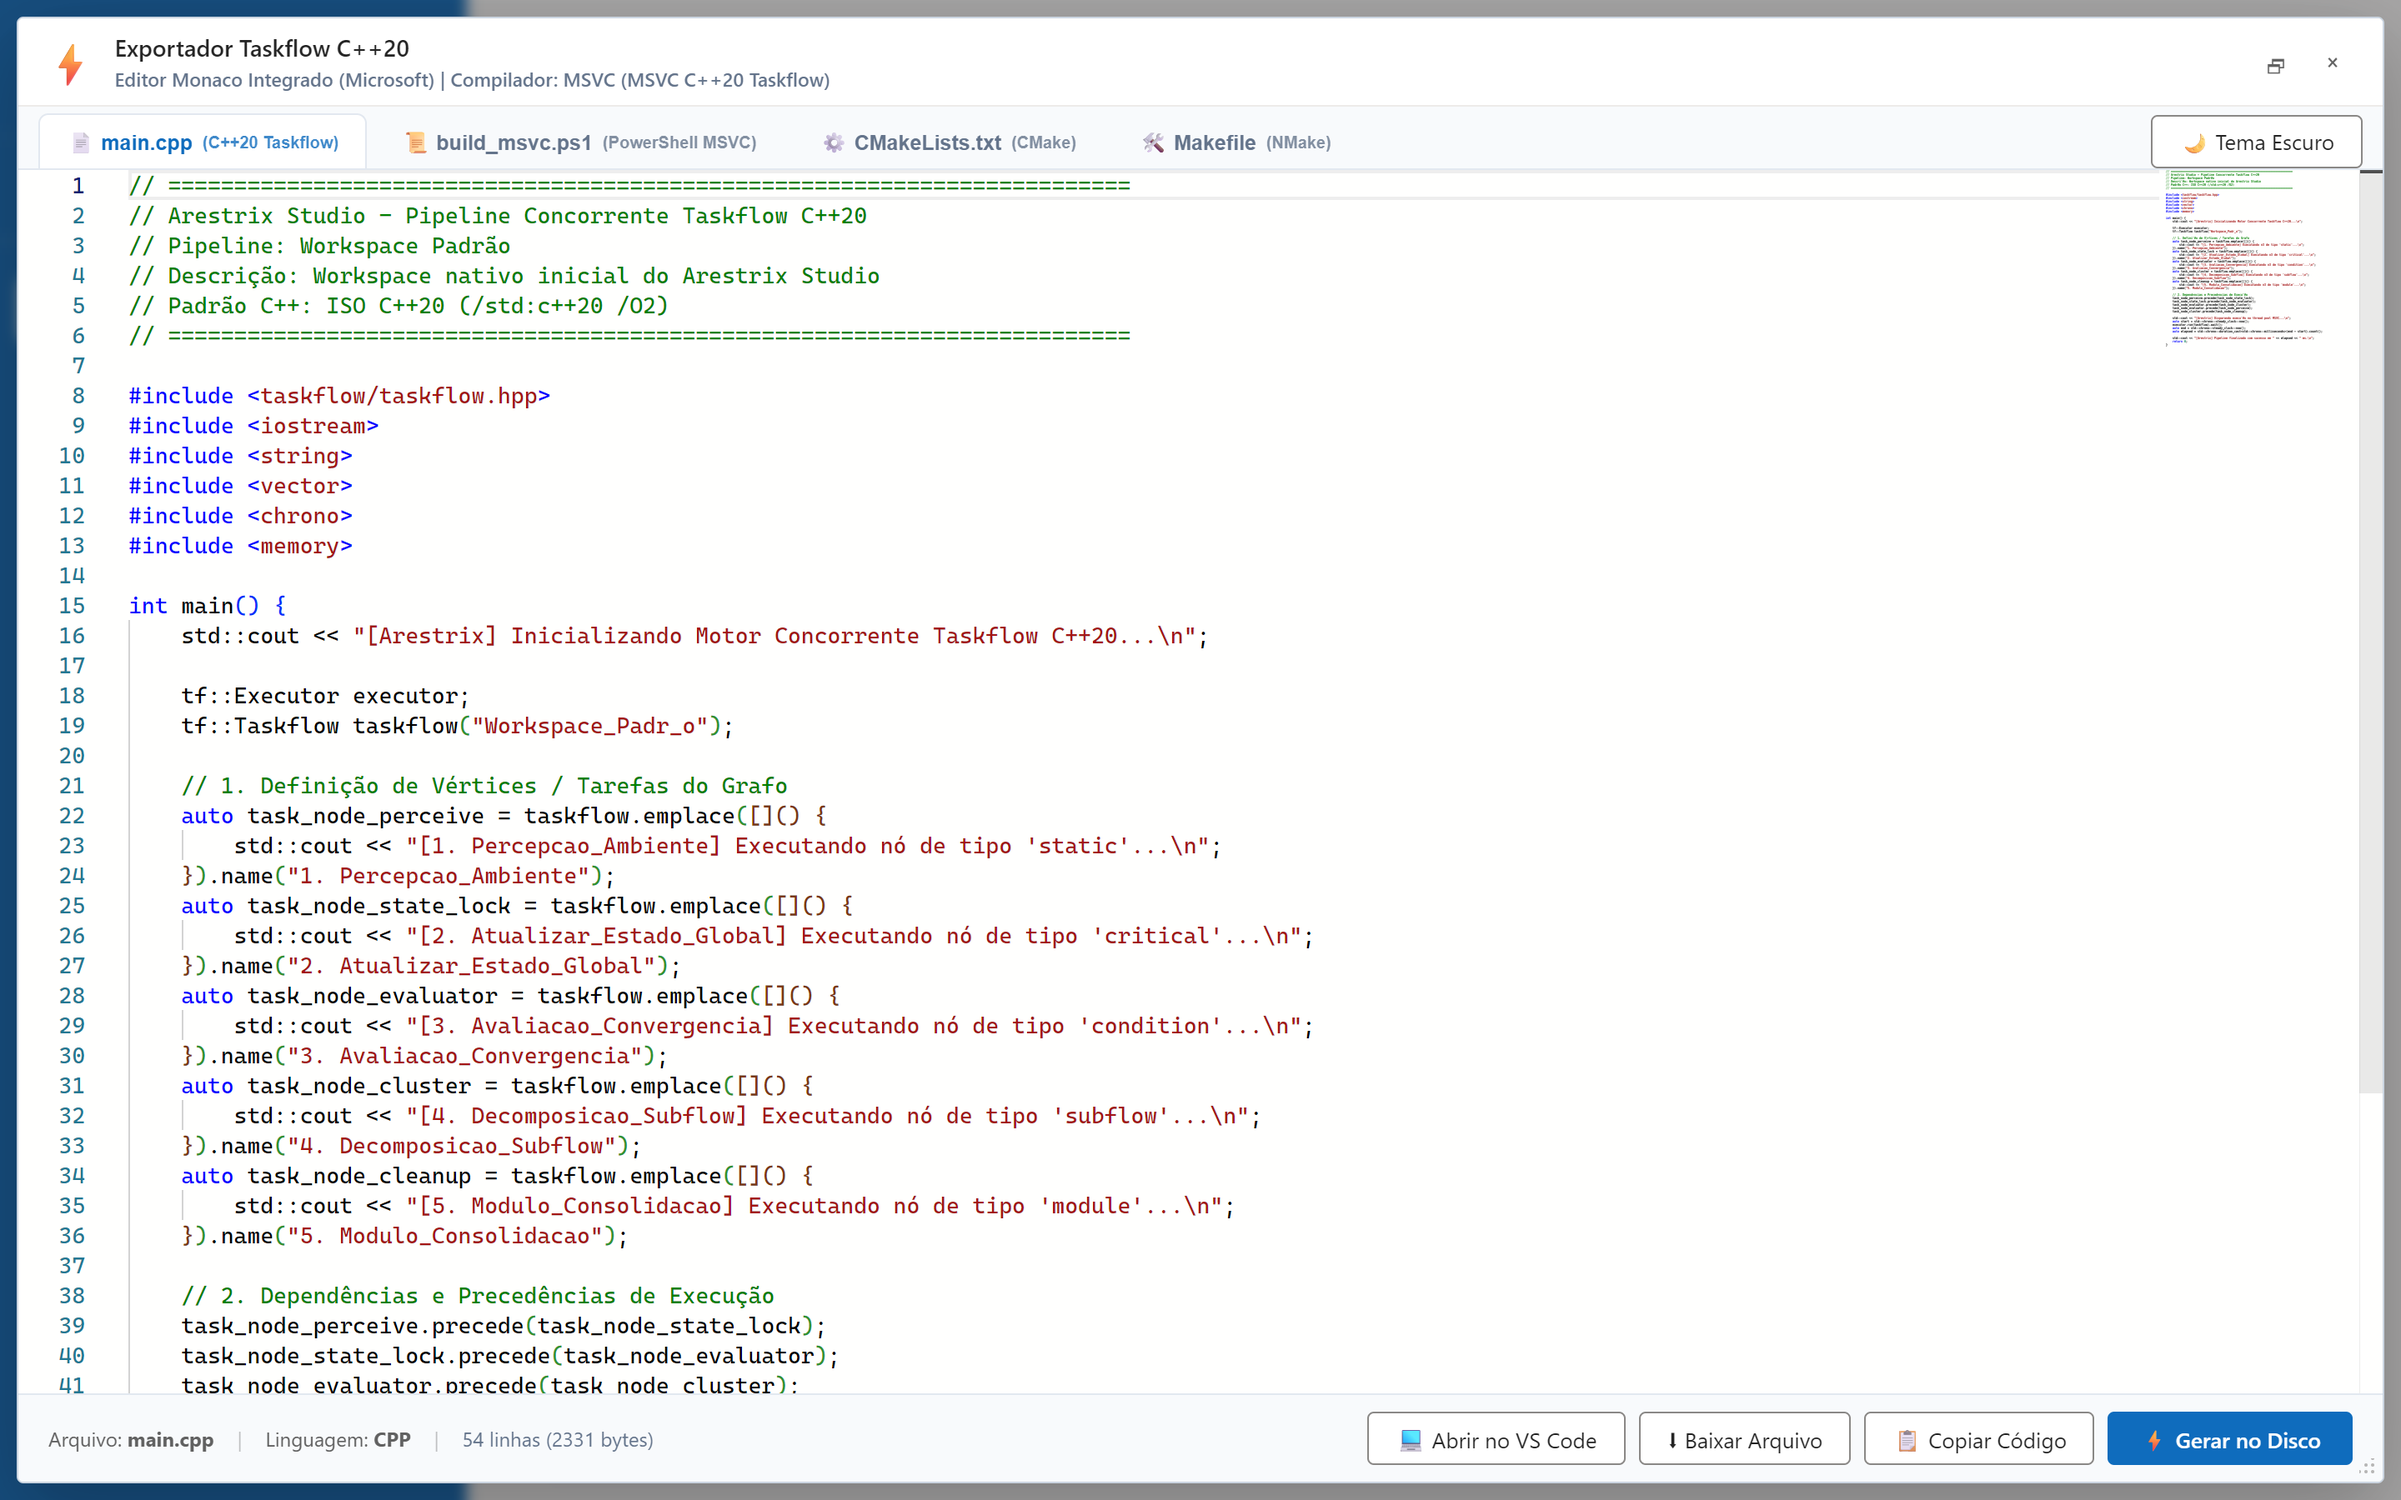
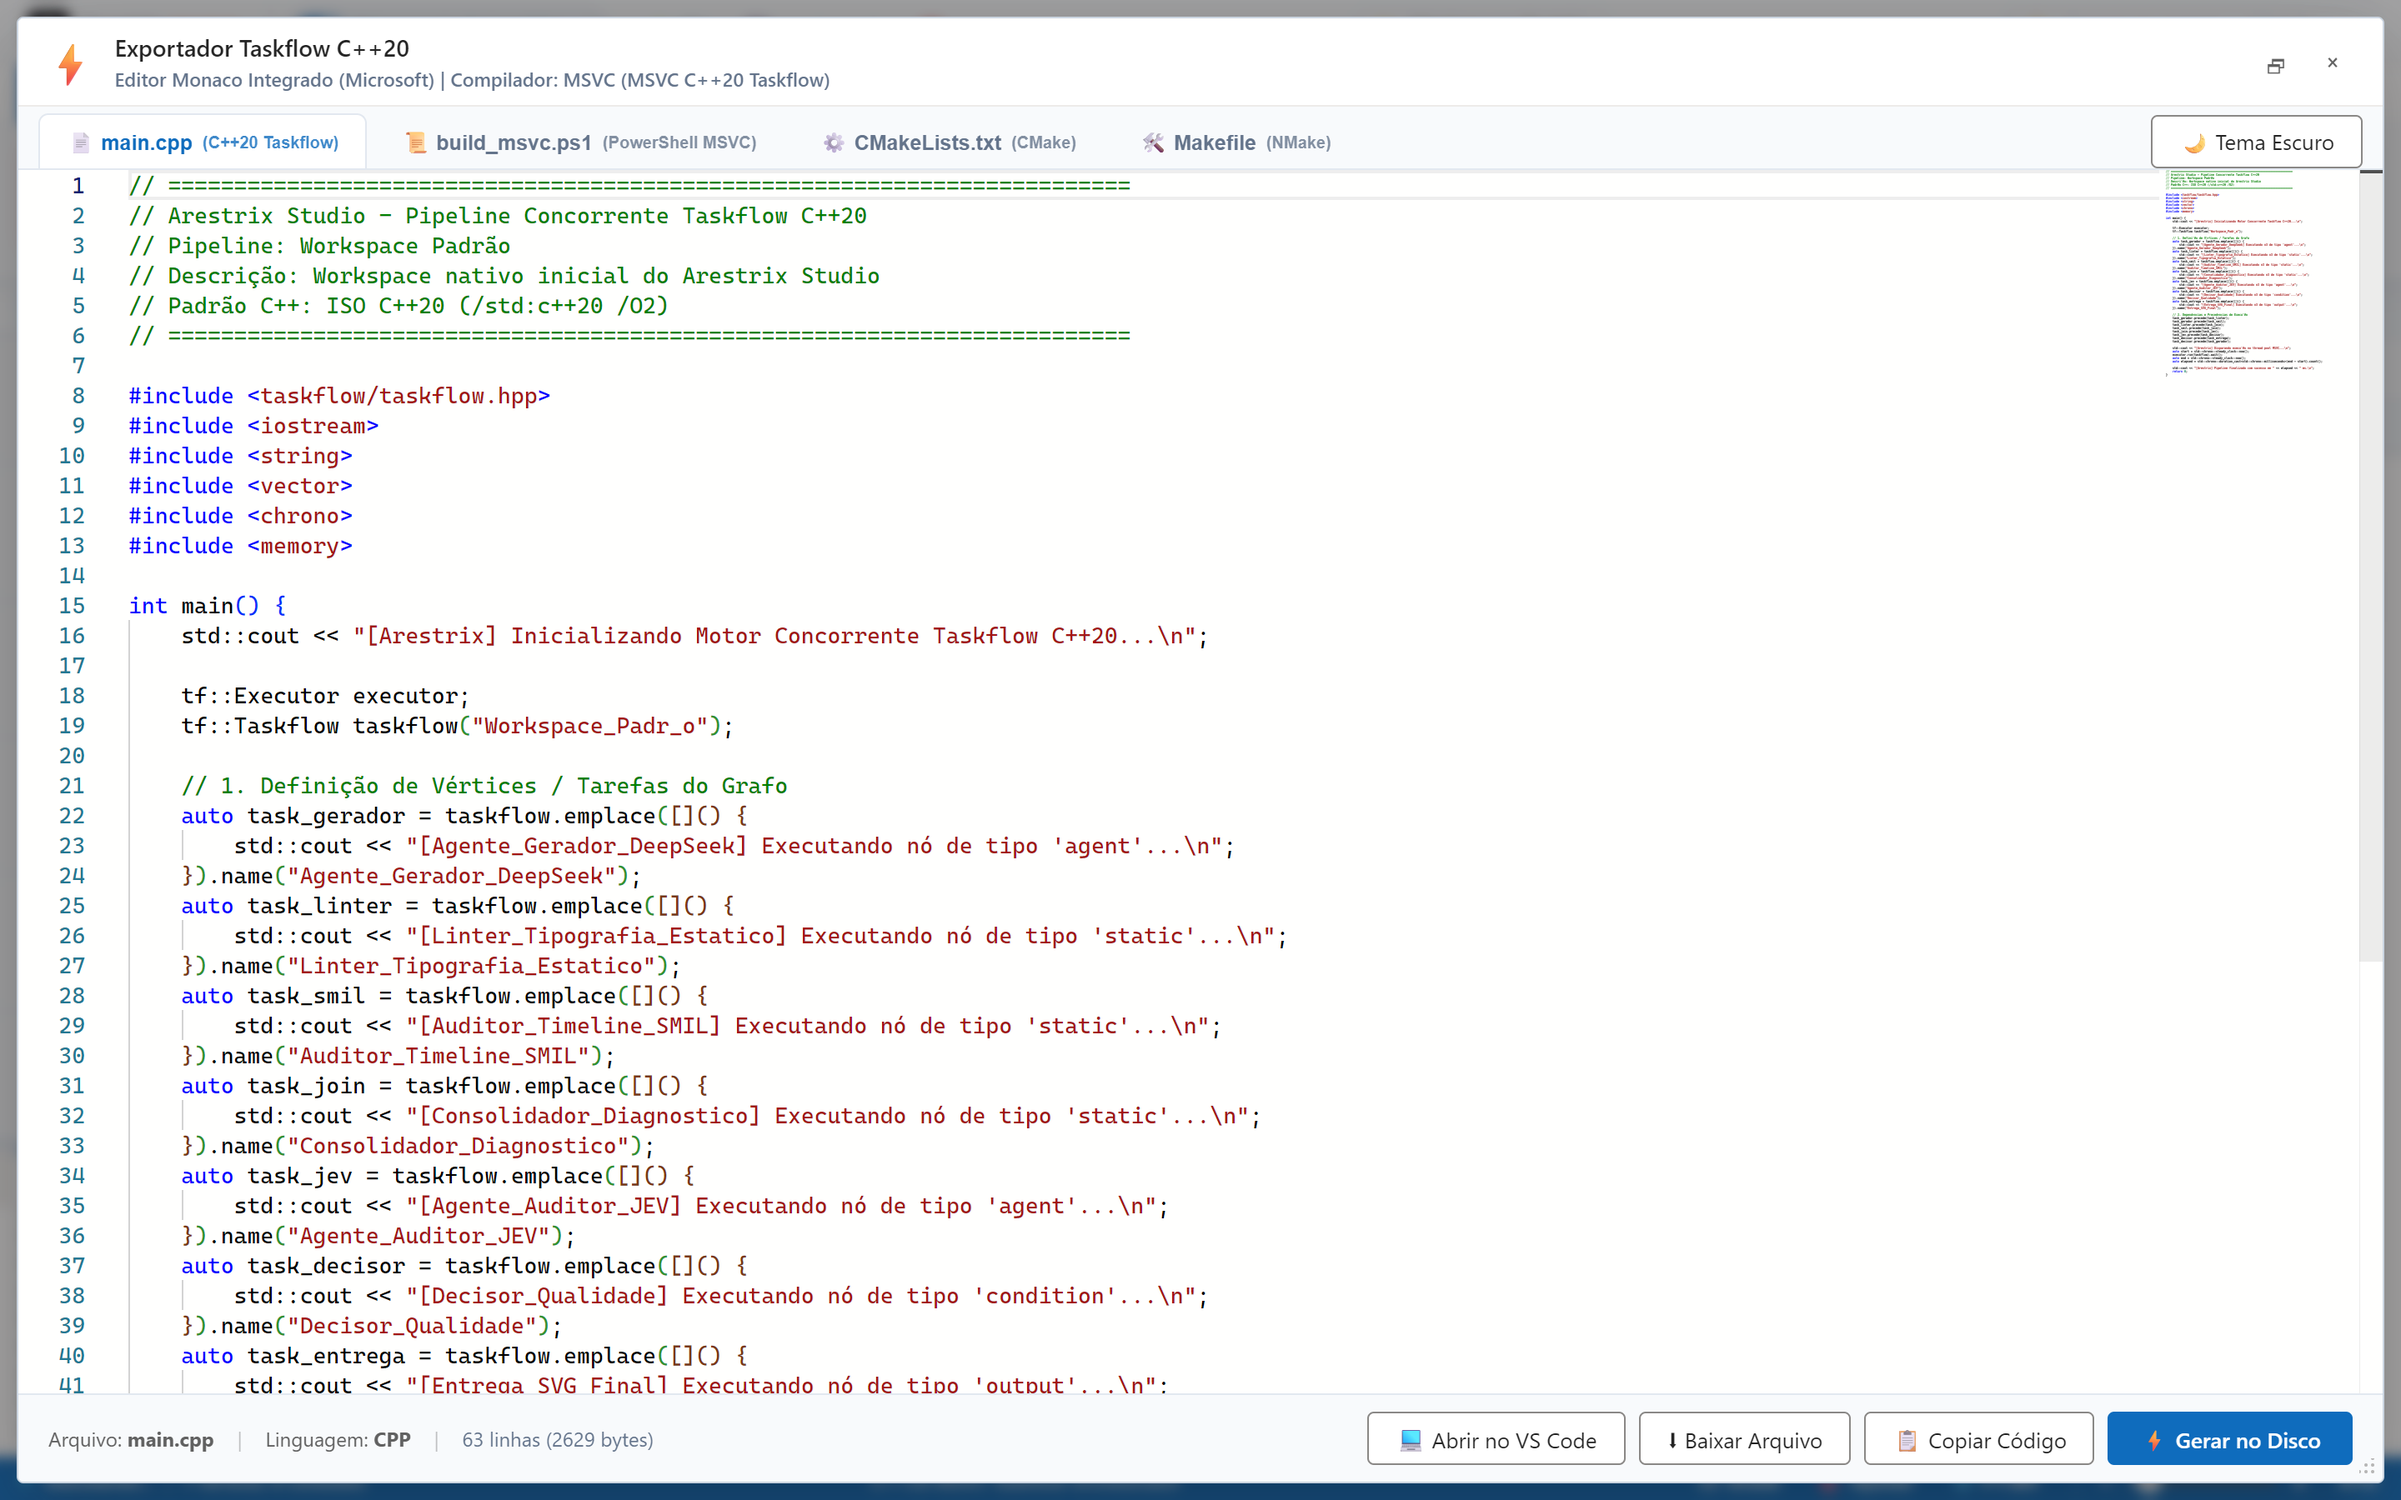
docs(screenshots): atualizar tela principal com pipeline de exemplo em execucao ativa
- Atualizada captura da tela principal (studio-main.png) exibindo o grafo de exemplo multiagente em execucao concorrente ativa (F5)
- Nos concluidos e no ativo (Agente_Auditor_JEV) com streaming de telemetria, pensando e botao de parada ativo no Ribbon
- Terminal MSVC C++20 acoplado exibindo logs em tempo real e status EXECUTANDO
- Ajustadas as legendas correspondentes no README.md e README.pt-BR.md

diff --git a/src/main.ts b/src/main.ts
@@ -173,6 +173,12 @@ function bootstrap() {
     }
   };
   // @ts-ignore
+  window.globalEventBus = globalEventBus;
+  // @ts-ignore
+  window.arestrixGraph = graph;
+  // @ts-ignore
+  window.arestrixViewport = viewport;
+  // @ts-ignore
   window.onArestrixTelemetry = onTelemetryHandler;
   // @ts-ignore
   window.onTaskForgeTelemetry = onTelemetryHandler;

diff --git a/README.pt-BR.md b/README.pt-BR.md
@@ -102,7 +102,7 @@ O Arestrix adota a filosofia de segurança em profundidade (*defense-in-depth*),
 ## Galeria de Recursos em Alta Resolução
 
 ### 1. Studio Principal & Canvas de Fluxo de Agentes
-Interface limpa, moderna e inspirada no Microsoft Office 365. Crie conexões entre agentes de linguagem, nós determinísticos, condicionais e integrações MCP com retorno visual em tempo real.
+Interface limpa e profissional inspirada no Microsoft Office 365 exibindo um pipeline multi-agente em **execução concorrente ativa (F5)**: visualização de nós concluídos e ativos, telemetria em tempo real com streaming de raciocínio, terminal de compilação MSVC C++20 acoplado e inspetor de propriedades do agente.
 
 <p align="center">
   <img src="docs/assets/screenshots/studio-main.png" alt="Arestrix Studio Canvas Principal" width="960">

diff --git a/README.md b/README.md
@@ -102,7 +102,7 @@ Arestrix adopts a defense-in-depth security architecture designed to meet rigoro
 ## High-Resolution Feature Showcase
 
 ### 1. Studio Canvas & Agent Swarm Workflow
-Clean, responsive, Office 365-inspired user interface. Seamlessly orchestrate LLM agents, deterministic computation nodes, conditional routers, and MCP tools with real-time visual execution states.
+Clean, responsive interface inspired by Microsoft Office 365 showcasing an active multi-agent pipeline in **real-time concurrent execution (F5)**: completed and active vertices, live thinking telemetry badges, docked MSVC C++20 Taskflow build terminal, and agent properties inspector.
 
 <p align="center">
   <img src="docs/assets/screenshots/studio-main.png" alt="Arestrix Studio Main Canvas" width="960">
